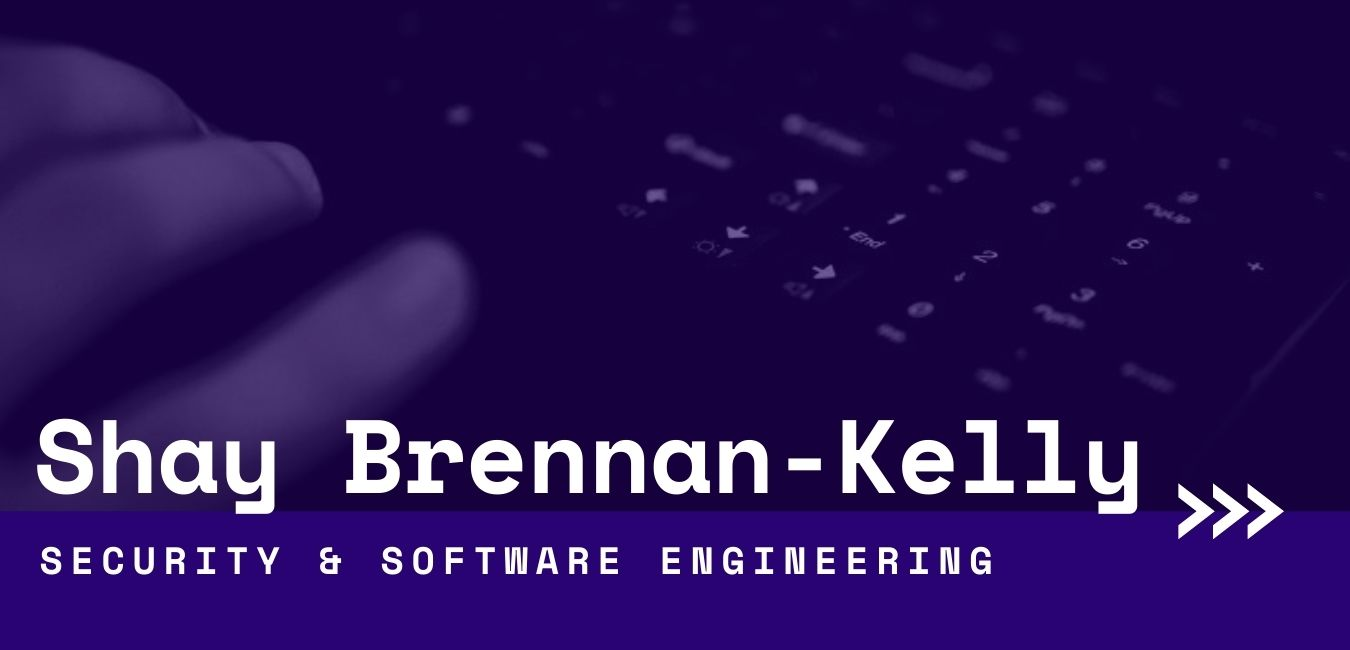
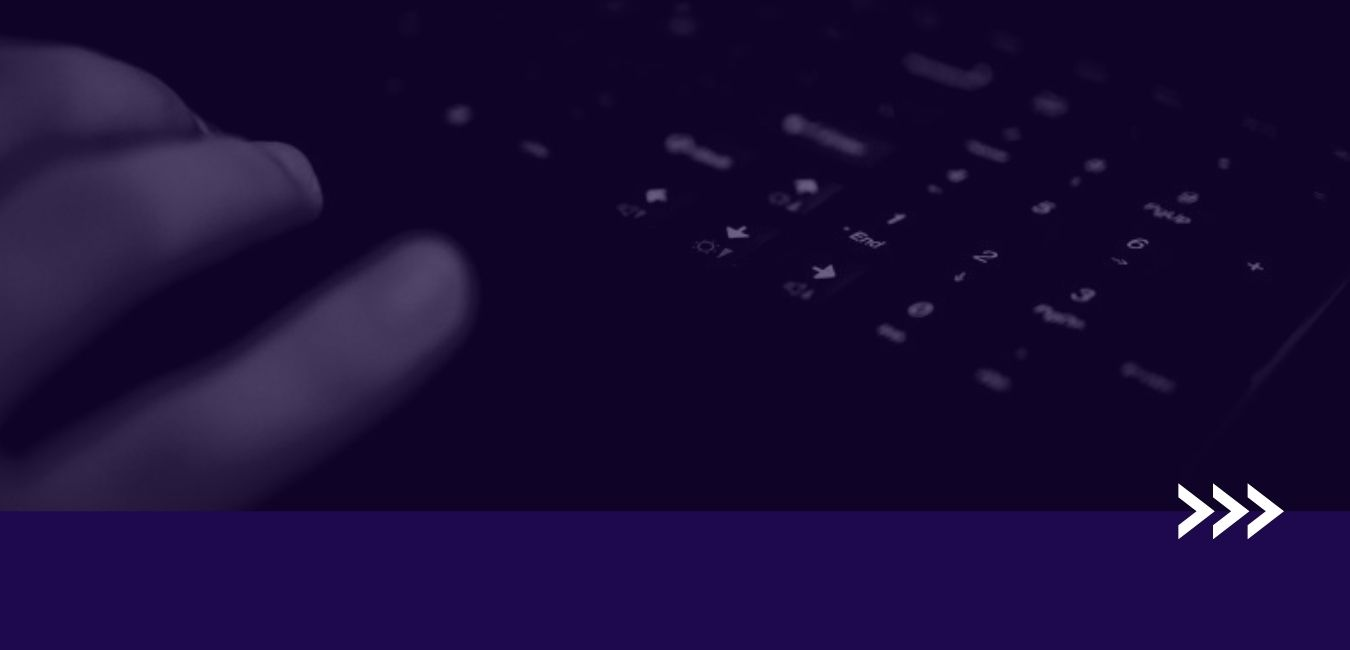
Updating...

Changed region(s): [[0.0, 0.6462, 1.0, 1.0]]

diff --git a/css/layout.css b/css/layout.css
@@ -23,8 +23,10 @@
 /* ------------------------------------------------------------------ */
 
 /* body { background: #285474; } */
-body { background: #290374; }
-
+/* body { background: #290374; }
+/* pink = da9dd8 */
+ */
+body {background: #1F094E;}
 /* ------------------------------------------------------------------ */
 /* b. Header Styles
 /* ------------------------------------------------------------------ */
@@ -34,7 +36,7 @@ header {
    height: 950px;
    min-height: 500px;
    width: 100%;
-   background: #290374 url(../images/header-background.jpg) no-repeat top center;
+   background: #1F094E url(../images/header-background.jpg) no-repeat top center;
    background-size: cover !important;
 	-webkit-background-size: cover !important;
    text-align: center;
@@ -69,23 +71,23 @@ header .banner-text h1 {
    letter-spacing: 2px;
    width: 90%;
    margin: 0 auto 18px auto;
-   text-shadow: 0px 1px 3px #3c5378;
+   text-shadow: 0px 1px 3px #847C94;
    padding-bottom: 20px;
 }
 header .banner-text h3 {
    font: 20px/2em ;
-   color: #9f48b8;
+   color: #7C64A4;
    margin: 0 auto;
    left:20% !important;
    width: 75%;
-   text-shadow: 0px 1px 2px  #3c5378;
+   text-shadow: 0px 1px 2px  #847C94;
    
    letter-spacing: 1px;
    text-align: left !important;
 }
 header .banner-text h3 span,
 header .banner-text h3 a {
-   color: #da9dd8;
+   color: #3D9DA1;
 }
 
 header .banner-text h4 {
@@ -96,7 +98,7 @@ header .banner-text h4 {
    width: 75%;
    
    letter-spacing: 0.5px;
-   text-shadow: 0px 1px 2px  #3c5378;
+   text-shadow: 0px 1px 2px  #847C94;
    text-align: left !important;
 }
 header .banner-text hr {
@@ -109,7 +111,7 @@ header .banner-text hr {
 /* header social links */
 header .social {
    font-size: 30px;
-   text-shadow: 0px 1px 2px  #3c5378;
+   text-shadow: 0px 1px 2px  #847C94;
    position: absolute;
    right: 10%;  
 }
@@ -127,7 +129,7 @@ header .scrolldown a {
    bottom: 30px;
    left: 50%;
    /* margin-left: -29px; */
-   /* background-color: #9f48b8; */
+   /* background-color: #7C64A4; */
    display: block;
    height: 42px;
    width: 42px;
@@ -142,7 +144,7 @@ header .scrolldown a {
    transition: all .3s ease-in-out;
 }
 header .scrolldown a:hover { 
-   color: #9f48b8; 
+   color: #7C64A4; 
 }
 
 /* primary navigation
@@ -205,7 +207,7 @@ ul#nav li a {
 }
 
 ul#nav li a:active { background-color: transparent !important; }
-ul#nav li.current a { color: #9f48b8; }
+ul#nav li.current a { color: #7C64A4; }
 
 
 /* ------------------------------------------------------------------ */
@@ -213,7 +215,7 @@ ul#nav li.current a { color: #9f48b8; }
 /* ------------------------------------------------------------------ */
 
 #about {
-   background: #290374;
+   background: #1F094E;
    padding-top: 96px;
    padding-bottom: 66px;
    overflow: hidden;
@@ -247,7 +249,7 @@ ul#nav li.current a { color: #9f48b8; }
 #about .main-col { padding-right: 5%; }
 #about .download .button {
    margin-top: 6px;
-   background: #9f48b8;
+   background: #7C64A4;
    color: #fff;
 }
 #about .download .button:hover {
@@ -294,7 +296,7 @@ ul#nav li.current a { color: #9f48b8; }
 .education, .work {
    margin-bottom: 48px;
    padding-bottom: 24px;
-   border-bottom: 1px solid #290374;
+   border-bottom: 1px solid #1F094E;
 }
 #resume .info {
    font: 16px/24px 'librebaskerville-italic', serif;
@@ -334,7 +336,7 @@ ul#nav li.current a { color: #9f48b8; }
 }
 .bars li em {
 	font: 15px 'opensans-bold', sans-serif;
-   color: #9f48b8;
+   color: #7C64A4;
 	text-transform: uppercase;
    letter-spacing: 2px;
 	font-weight: normal;
@@ -348,7 +350,7 @@ ul#nav li.current a { color: #9f48b8; }
 
    margin: 0;
    padding-right: 24px;
-  	background: #290374;
+  	background: #1F094E;
    display: inline-block;
   	height: 42px;
    line-height: 42px;
@@ -447,7 +449,7 @@ ul#nav li.current a { color: #9f48b8; }
 /* ------------------------------------------------------------------ */
 
 #portfolio {
-   background: #290374;
+   background: #1F094E;
    padding-top: 90px;
    padding-bottom: 60px;
 }
@@ -584,7 +586,7 @@ ul#nav li.current a { color: #9f48b8; }
 }
 .popup-modal .link-box {
    padding: 18px 36px;
-   background: #290374;
+   background: #1F094E;
    text-align: left;
 }
 .popup-modal .link-box a {
@@ -666,7 +668,7 @@ ul#nav li.current a { color: #9f48b8; }
 /* ------------------------------------------------------------------ */
 
 #call-to-action {
-   background: #290374;
+   background: #1F094E;
    padding-top: 66px;
    padding-bottom: 48px;
 }
@@ -711,7 +713,7 @@ call-to-action .button {
 #call-to-action .button:hover,
 #call-to-action .button:active {
    background: #FFFFFF;
-   color: #290374;
+   color: #1F094E;
 }
 #call-to-action p span {
 	font-family: 'opensans-semibold', sans-serif;
@@ -724,7 +726,7 @@ call-to-action .button {
 
 #testimonials {
    /* TODO: Create new graphic */
-   background: #290374;
+   background: #1F094E;
    background-size: cover !important;
 	-webkit-background-size: cover !important;
    background-attachment: fixed;
@@ -762,7 +764,7 @@ call-to-action .button {
    margin: 0 0px 30px 0px;
    padding-left: 0;
    position: relative;
-   text-shadow: 0px 1px 3px #290374;
+   text-shadow: 0px 1px 3px #1F094E;
 }
 #testimonials blockquote:before { content: none; }
 #testimonials blockquote p {
@@ -873,7 +875,7 @@ call-to-action .button {
 /* ------------------------------------------------------------------ */
 
 #contact {
-   background: #290374;
+   background: #1F094E;
    padding-top: 96px;
    padding-bottom: 102px;
    color: #EBEEEE;
@@ -947,7 +949,7 @@ call-to-action .button {
 	text-transform: uppercase;
 	letter-spacing: 3px;
 	color:#fff;
-   background: #290374;
+   background: #1F094E;
 	border: none;
    cursor: pointer;
    height: auto;
@@ -965,7 +967,7 @@ call-to-action .button {
 }
 #message-warning, #message-success {
    display: none;
-	background: #290374;
+	background: #1F094E;
 	padding: 24px 24px;
 	margin-bottom: 36px;
    width: 65%;
@@ -1056,7 +1058,7 @@ footer .social-links li {
     margin: 0;
     padding: 0;
     margin-left: 42px;
-    color: #da9dd8;
+    color: #3D9DA1;
 }
 
 footer .social-links li:first-child { margin-left: 0; }
@@ -1081,12 +1083,12 @@ footer .social-links li:first-child { margin-left: 0; }
    -ms-transition: all 0.2s ease-in-out;
    transition: all 0.2s ease-in-out;
 
-   color: #290374;
+   color: #1F094E;
    font-size: 21px;
    line-height: 60px;
  	border-radius: 100%;
 }
 #go-top a:hover {    
-   background-color: #9f48b8;
-   color: #290374;
+   background-color: #7C64A4;
+   color: #1F094E;
 }
